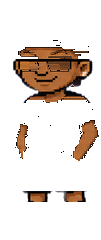
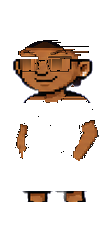
Sin gorra y sin lentes: darle craneo, flequillo y cuenca al MC
El owner probo la combinacion y se veia mal. Midiendo los spans por fila
aparecieron TRES agujeros en la cabeza, no uno:

- Filas 57-70 son todas cristal en el original.
- Bajo la visera, los pixeles que la gorra sombreaba se fueron a la capa gorra.
- Sobre la fila 48 no hay cabeza en absoluto: toda la cupula era gorra. Al sacarla
  quedaba fondo donde va el craneo, y ninguna ubicacion del pelo lo tapa porque el
  tupe trasplantado solo llega a x 63..85 a la altura de la ceja.

Arreglos:

- Craneo: elipse ajustada a la frente que el sprite SI dibuja, con su contorno, y
  el tono muestreado del pixel de piel real mas cercano.
- Flequillo simetrico: se une el pelo con su propio espejo, asi el borde bajo queda
  bajo en AMBOS lados. Sigue siendo 100% pixeles dibujados, usados dos veces.
- La banda de los lentes se rellena VERTICAL (frente -> pomulo). De lado, el unico
  tejido real de esas filas son las orejas, y salia un bloque plano color oreja con
  costura donde terminaba el cristal.
- El ancla de arriba tiene que ser carne y no la CEJA, o toda la cuenca interpola
  desde una linea oscura y queda una barra cafe cruzando la cara.
- El recorte de ojos del rival se aprieta a esclerotica + iris + pestana; el corte
  suelto traia su propia sombra y leia como un recuadro translucido por ojo.

El script ahora FALLA si la cabeza queda con agujeros entre los extremos de la piel
en las filas 40-95 (hasta 95 y no mas: en los hombros la polera va legitimamente
[…]

Changed region(s): [[0.1782, 0.2333, 0.7129, 0.2917], [0.2673, 0.1458, 0.8614, 0.2042]]

diff --git a/src/data/characterLayers.ts b/src/data/characterLayers.ts
@@ -66,14 +66,14 @@ export const characterLayers: readonly CharacterLayer[] = [
   {
     id: "skin",
     role: "skin",
-    stops: [0, 9.2, 80.3, 115.5, 255],
-    source: ["#010104", "#1d1016", "#79431f", "#b26935", "#f0d2b8"],
+    stops: [0, 9.3, 82, 115.6, 255],
+    source: ["#020104", "#1a0f14", "#7b441f", "#b26935", "#f0d2b8"],
   },
   {
     id: "hair",
     role: "hair",
-    stops: [0, 32.9, 38.9, 40.4, 153.4],
-    source: ["#070304", "#37170c", "#4a1e0f", "#522311", "#9e6d4f"],
+    stops: [0, 30.4, 38.8, 40.5, 153.4],
+    source: ["#060204", "#34150c", "#4a1e0f", "#532311", "#9f6d4f"],
   },
   {
     id: "top",
@@ -128,8 +128,8 @@ export const characterLayers: readonly CharacterLayer[] = [
     // Its own role, not "glass": under the glass ramp the open eyes came out grey,
     // and an eye is not a lens.
     role: "eye",
-    stops: [0, 11.4, 80.7, 206.2, 255],
-    source: ["#000100", "#101c14", "#36684a", "#c3c7c0", "#f9f7f5"],
+    stops: [0, 14.2, 98.1, 216.7, 255],
+    source: ["#010100", "#0e1f15", "#376a4c", "#c8cac4", "#f9f8f6"],
   },
 ];
 

diff --git a/progress.md b/progress.md
@@ -387,3 +387,29 @@ accesorios de brazo, cadenas, tatuajes, pantalón o short, zapatillas o zapatos)
 con lo que se intentó derivar y por qué no sirvió. El owner además dejó abierta la
 opción de definir un **estilo propio** y dibujar el set completo; el pipeline no
 cambia si se reemplaza el sprite base.
+
+### Corrección: sin gorra Y sin anteojos (mismo día)
+
+El owner probó la combinación que yo no había mirado ampliada y tenía razón: se
+veía mal. Medí los spans por fila y aparecieron **tres** agujeros, no uno:
+
+- Filas 57–70 son todas cristal en el original (ya estaba).
+- Bajo la visera, los píxeles que la gorra *sombreaba* se fueron a la capa gorra.
+- **Sobre la fila 48 no hay cabeza en absoluto**: toda la cúpula era gorra. Al
+  sacarla quedaba fondo donde va el cráneo, y ninguna ubicación del pelo lo podía
+  tapar porque el tupé trasplantado solo llega a x 63..85 a la altura de la ceja.
+
+Arreglos: se le da **cráneo** (elipse ajustada a la frente que el sprite sí dibuja,
+con su contorno), el flequillo se hace simétrico **uniendo el pelo con su espejo**
+(sigue siendo 100% píxeles dibujados, solo usados dos veces), y la banda de los
+lentes se rellena **vertical** (frente→pómulo) en vez de horizontal — de lado el
+único tejido real de esas filas son las orejas y salía un bloque plano color oreja
+con costura. El ancla de arriba además tiene que ser **carne y no la ceja**, o toda
+la cuenca interpola desde una línea oscura y queda una barra café cruzando la cara.
+
+El script ahora **falla** si la cabeza queda con agujeros entre los extremos de la
+piel en las filas 40–95 (hasta 95 y no más: en los hombros la polera va
+legítimamente entre el cuello y los brazos). Es lo que se rompió dos veces y solo
+se veía al sacarse algo en el juego.
+
+Trazas idénticas al baseline: cero cambio de conducta.
